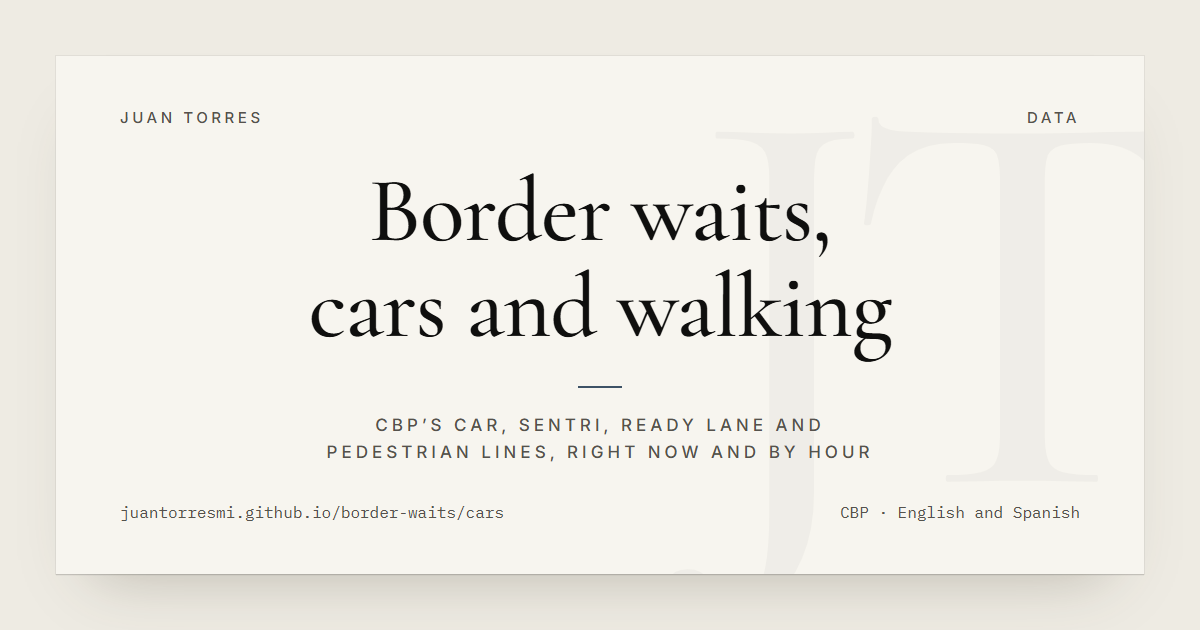
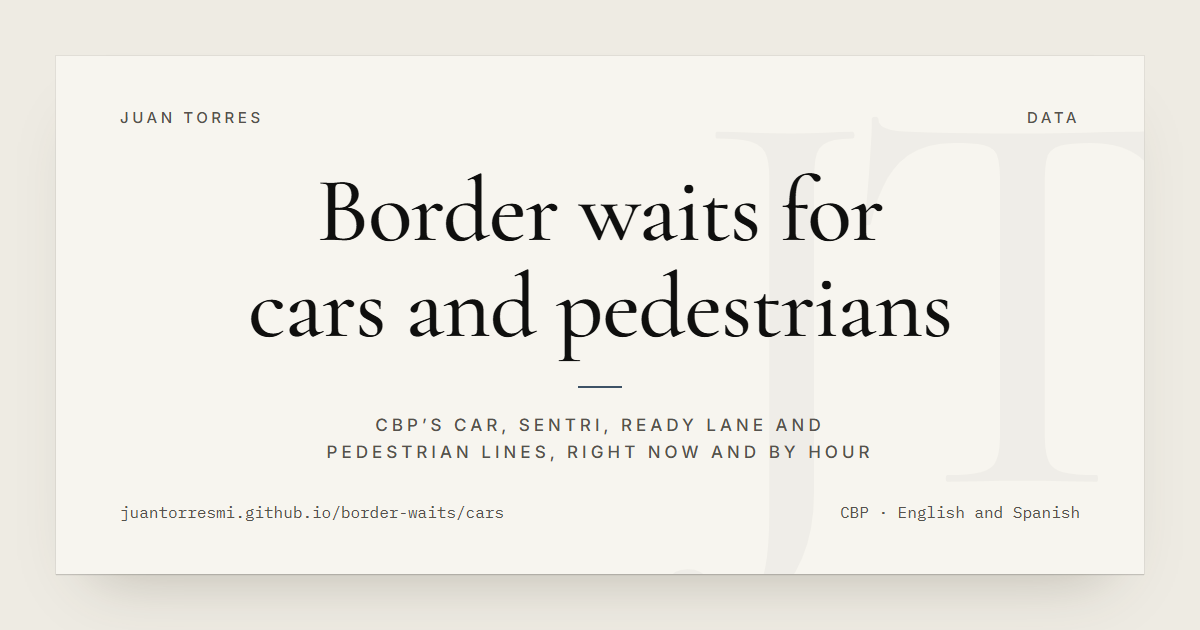
Projects page: names that match each page, four grouped sections, jump links instead of a filter script, compact cards

Changed region(s): [[0.185, 0.4222, 0.8017, 0.573], [0.2467, 0.2714, 0.74, 0.3921]]

diff --git a/projects.html b/projects.html
@@ -3,17 +3,28 @@ layout: default
 title: Projects
 seo_title: "Projects · Juan Torres · Simulations, Planners and Live Data"
 permalink: /projects/
-description: Projects by Juan Torres that run in the browser, from a fruit-fly delivery simulation and a production planner to live reefer rates and border waits.
+description: Projects by Juan Torres that run in the browser: planners and simulations, live USDA market prices, and border wait times for trucks, cars and pedestrians.
 image: /assets/og/projects.png
 image_alt: "Things I’ve built, by Juan Torres: a fly-brained delivery truck, a production planner, weekly reefer rates and a Minecraft price ledger."
 ---
 {%- comment -%}
-  A "professional" page (see the families in CLAUDE.md): a catalog. Each card wears its
-  project's own stock: Work projects on day stock, Gamer projects on night stock (the same
-  .stock-night tokens, scoped to the card), so the catalog previews where a click goes.
-  Card art is the project's share picture: `art` in projects.yml, else assets/og/<slug>.png. Styles: .pj in style.css.
+  A "professional" page (see the families in CLAUDE.md): a catalog. The first project in
+  projects.yml is the featured card; the rest are listed under their `group`, in the order below,
+  each group a section with its own heading and a jump link at the top (no script needed). Each
+  card wears its project's own stock: Work projects on day stock, Gamer projects on night stock
+  (the same .stock-night tokens, scoped to the card), so the catalog previews where a click goes.
+  The featured card shows its share picture (`art` in projects.yml, else assets/og/<slug>.png).
+  Styles: .pj in style.css.
 {%- endcomment -%}
-{%- assign families = site.data.projects | map: "family" | uniq -%}
+{%- assign all = site.data.projects -%}
+{%- assign lead = all | first -%}
+{%- capture groups -%}
+tools|Tools and simulations|Planners, solvers and simulations that run in your browser, for school, work and games.
+usda|USDA market prices|USDA’s market reports turned into readable pages in English and Spanish, with every number free to download.
+border|Border wait times|CBP’s land border waits for trucks, cars and pedestrians, right now and by hour of the week.
+site|Behind the site|The live numbers this site keeps about itself.
+{%- endcapture -%}
+{%- assign groups = groups | strip | newline_to_br | split: "<br />" -%}
 <div class="pj">
 <header class="pj-head">
   <div>
@@ -21,50 +32,56 @@ image_alt: "Things I’ve built, by Juan Torres: a fly-brained delivery truck, a
     <h1>Things I’ve built</h1>
     <p class="pj-lede">Mostly ideas from class, or from games I play, that I wanted to try for real. Each one runs right here on the site.</p>
   </div>
-  <div class="pj-filter" role="group" aria-label="Show projects by family" hidden>
-    <button type="button" data-family="" aria-pressed="true">All · {{ site.data.projects.size }}</button>
-    {%- for f in families %}{% assign n = site.data.projects | where: "family", f | size %}
-    <button type="button" data-family="{{ f }}" aria-pressed="false">{{ f }} · {{ n }}</button>
+  <nav class="pj-filter" aria-label="Project groups">
+    {%- for g in groups %}{% assign gp = g | strip | split: "|" %}{% assign n = all | where: "group", gp[0] | size %}{% if gp[0] == lead.group %}{% assign n = n | minus: 1 %}{% endif %}
+    <a href="#{{ gp[0] }}">{{ gp[1] }} · {{ n }}</a>
     {%- endfor %}
-  </div>
+  </nav>
 </header>
 
-<div class="pj-grid">
-  {%- for p in site.data.projects %}
-  <article class="pj-card{% if forloop.first %} pj-lead{% endif %}{% if p.family == "Gamer" %} stock-night{% endif %}" data-family="{{ p.family }}">
-    <a class="pj-link" href="{{ p.url }}">
-      <span class="pj-top"><span>No. {{ forloop.index | prepend: "0" | slice: -2, 2 }}{% if forloop.first %} · Featured{% endif %}</span><span class="pj-fam">{{ p.family }} · {{ p.kind }}</span></span>
-      <span class="pj-body">
+<article class="pj-card pj-lead{% if lead.family == "Gamer" %} stock-night{% endif %}">
+  <a class="pj-link" href="{{ lead.url }}">
+    <span class="pj-top"><span>Featured</span><span class="pj-fam">{{ lead.family }} · {{ lead.kind }}</span></span>
+    <span class="pj-body">
+      <span class="pj-text">
+        <span class="pj-title">{{ lead.title }}</span>
+        <span class="pj-short">{{ lead.summary }}</span>
+        <span class="pj-metric">{{ lead.metric }}</span>
+      </span>
+      {%- if lead.art %}{% assign art = lead.art %}{% else %}{% assign art = "/assets/og/" | append: lead.slug | append: ".png" %}{% endif %}
+      <img class="pj-art" src="{{ art }}" alt="" width="1200" height="630">
+    </span>
+  </a>
+  {%- if lead.writeup %}<a class="pj-more" href="{{ lead.writeup }}">How I built it →</a>{% elsif lead.guide %}<a class="pj-more" href="{{ lead.guide }}">Read the guide →</a>{% endif %}
+</article>
+
+{%- for g in groups %}{% assign gp = g | strip | split: "|" %}
+{%- assign list = all | where: "group", gp[0] %}
+{%- if list.size > 0 %}
+<section class="pj-group" id="{{ gp[0] }}" aria-labelledby="{{ gp[0] }}-h">
+  <header class="pj-group-head">
+    <h2 id="{{ gp[0] }}-h">{{ gp[1] }}</h2>
+    <p>{{ gp[2] }}</p>
+  </header>
+  <div class="pj-grid">
+    {%- for p in list %}{% if p.slug != lead.slug %}
+    <article class="pj-card{% if p.family == "Gamer" %} stock-night{% endif %}">
+      <a class="pj-link" href="{{ p.url }}">
+        <span class="pj-top"><span>{{ p.kind }}</span><span class="pj-fam">{{ p.family }}</span></span>
         <span class="pj-text">
           <span class="pj-title">{{ p.title }}</span>
-          <span class="pj-short">{% if forloop.first %}{{ p.summary }}{% else %}{{ p.short }}{% endif %}</span>
+          <span class="pj-short">{{ p.short }}</span>
           <span class="pj-metric">{{ p.metric }}</span>
         </span>
-        {%- if p.art %}{% assign art = p.art %}{% else %}{% assign art = "/assets/og/" | append: p.slug | append: ".png" %}{% endif %}
-        <img class="pj-art" src="{{ art }}" alt="" loading="lazy" width="1200" height="630">
-      </span>
-    </a>
-    {%- if p.writeup %}<a class="pj-more" href="{{ p.writeup }}">How I built it →</a>{% elsif p.guide %}<a class="pj-more" href="{{ p.guide }}">Read the guide →</a>{% endif %}
-  </article>
-  {%- endfor %}
+      </a>
+      {%- if p.writeup %}<a class="pj-more" href="{{ p.writeup }}">How I built it →</a>{% elsif p.guide %}<a class="pj-more" href="{{ p.guide }}">Read the guide →</a>{% endif %}
+    </article>
+    {%- endif %}{% endfor %}
+  </div>
+</section>
+{%- endif %}
+{%- endfor %}
 </div>
-</div>
-
-<script>
-/* Family filter. Every card shows without JavaScript; this only hides the others. */
-(() => {
-  const bar = document.querySelector(".pj-filter");
-  if (!bar) return;
-  bar.hidden = false;
-  const cards = [...document.querySelectorAll(".pj-card")];
-  bar.addEventListener("click", (e) => {
-    const b = e.target.closest("button");
-    if (!b) return;
-    bar.querySelectorAll("button").forEach((x) => x.setAttribute("aria-pressed", String(x === b)));
-    cards.forEach((c) => { c.hidden = !!b.dataset.family && c.dataset.family !== b.dataset.family; });
-  });
-})();
-</script>
 
 <section class="sec" id="log">
   <header class="sec-head"><h2>Project log</h2><a class="label" href="{{ site.social.github }}">GitHub ↗</a></header>

diff --git a/assets/css/style.css b/assets/css/style.css
@@ -778,15 +778,19 @@ a.yt-row:hover .t { color: var(--accent); }
 .pj h1 { margin: 0; font-family: var(--serif); font-weight: 500; font-size: clamp(48px, 7vw, 80px); line-height: 0.98; color: var(--ink); }
 .pj-lede { margin: 20px 0 0 !important; max-width: 36em; font-size: 18px; line-height: 1.6; color: var(--text-2); }
 .pj-filter { display: flex; flex-wrap: wrap; border: 1px solid var(--ink); }
-.pj-filter[hidden] { display: none; }
-.pj-filter button { height: 44px; padding: 0 16px; border: 0; border-left: 1px solid var(--ink); background: transparent; color: var(--ink); font: 500 11px/1 var(--sans); letter-spacing: 0.16em; text-transform: uppercase; cursor: pointer; }
-.pj-filter button:first-child { border-left: 0; }
-.pj-filter button[aria-pressed="true"] { background: var(--ink); color: var(--on-ink); }
-.pj-grid { display: grid; grid-template-columns: repeat(auto-fill, minmax(320px, 1fr)); gap: 24px; margin-top: 40px; }
+.pj-filter a { display: flex; align-items: center; min-height: 44px; padding: 0 16px; border-left: 1px solid var(--ink); color: var(--ink); font: 500 11px/1.3 var(--sans); letter-spacing: 0.16em; text-transform: uppercase; text-decoration: none; }
+.pj-filter a:first-child { border-left: 0; }
+.pj-filter a:hover, .pj-filter a:focus-visible { background: var(--ink); color: var(--on-ink); }
+/* One section per group (projects.yml `group`): a heading and a line, then its cards. */
+.pj-group { margin-top: 72px; scroll-margin-top: 24px; }
+.pj-group-head { display: flex; flex-wrap: wrap; justify-content: space-between; align-items: baseline; gap: 8px 32px; padding-top: 16px; border-top: 1px solid var(--ink); }
+.pj-group-head h2 { margin: 0; font-family: var(--serif); font-weight: 500; font-size: clamp(32px, 4vw, 40px); line-height: 1.1; color: var(--ink); }
+.pj-group-head p { margin: 0; max-width: 34em; font-size: 15px; line-height: 1.55; color: var(--text-2); }
+.pj-grid { display: grid; grid-template-columns: repeat(auto-fill, minmax(280px, 1fr)); gap: 24px; margin-top: 24px; }
 .pj-card { display: flex; flex-direction: column; background: var(--stock); color: var(--text); border-top: 2px solid var(--ink); }
 .pj-card.stock-night { border-top-color: var(--accent); outline: 1px solid var(--rule); outline-offset: -1px; }
 .pj-card[hidden] { display: none; }
-.pj-lead { grid-column: 1 / -1; border-top: 0; }
+.pj-lead { margin-top: 40px; border-top: 0; }
 .pj-link { flex: 1; display: flex; flex-direction: column; gap: 16px; padding: 24px; text-decoration: none; }
 .pj-lead .pj-link { padding: clamp(24px, 4vw, 48px); }
 .pj-top { display: flex; justify-content: space-between; gap: 16px; font-size: 11px; font-weight: 500; letter-spacing: 0.16em; text-transform: uppercase; color: var(--muted); }
@@ -795,7 +799,7 @@ a.yt-row:hover .t { color: var(--accent); }
 .pj-body { display: flex; flex-direction: column; gap: 20px; flex: 1; }
 .pj-lead .pj-body { display: grid; grid-template-columns: minmax(0, 7fr) minmax(0, 5fr); gap: 32px; align-items: center; }
 .pj-text { display: flex; flex-direction: column; gap: 12px; }
-.pj-title { font-family: var(--serif); font-weight: 500; font-size: 32px; line-height: 1.05; color: var(--ink); transition: color 0.15s; }
+.pj-title { font-family: var(--serif); font-weight: 500; font-size: 28px; line-height: 1.1; color: var(--ink); transition: color 0.15s; text-wrap: balance; }
 .pj-lead .pj-title { font-size: clamp(40px, 5vw, 56px); }
 .pj-link:hover .pj-title { color: var(--accent); }
 .pj-short { font-size: 15px; line-height: 1.55; color: var(--text); }
@@ -805,7 +809,8 @@ a.yt-row:hover .t { color: var(--accent); }
 .pj-more { align-self: flex-start; margin: 0 24px 24px; font-size: 13px; color: var(--ink); text-decoration: underline; text-decoration-thickness: 1px; text-underline-offset: 4px; text-decoration-color: var(--rule); }
 .pj-lead .pj-more { margin: 0 clamp(24px, 4vw, 48px) clamp(24px, 4vw, 40px); }
 .pj-more:hover { color: var(--accent); text-decoration-color: var(--accent); }
-@media (max-width: 860px) { .pj { padding-top: 32px; } .pj-lead .pj-body { grid-template-columns: minmax(0, 1fr); } }
+@media (max-width: 860px) { .pj { padding-top: 32px; } .pj-lead .pj-body { grid-template-columns: minmax(0, 1fr); } .pj-group { margin-top: 56px; } }
+@media (max-width: 520px) { .pj-filter { display: grid; grid-template-columns: 1fr 1fr; width: 100%; } .pj-filter a { border-left: 0; border-top: 1px solid var(--ink); padding: 10px 12px; } .pj-filter a:nth-child(-n+2) { border-top: 0; } .pj-filter a:nth-child(even) { border-left: 1px solid var(--ink); } }
 @media (max-width: 400px) { .pj-grid { grid-template-columns: minmax(0, 1fr); } }
 
 /* ---------- Writing (/blog/) ----------

diff --git a/scripts/og-images.js b/scripts/og-images.js
@@ -36,9 +36,9 @@ const CARDS = {
     sub: "Build your own solver · Optimization in plain English", bottom: ["juantorresmi.github.io/plain-solver", "HiGHS · in the browser"] },
   "reefer-rates": { top: ["Juan Torres", "Data"], name: "Reefer truck rates",
     sub: "USDA’s weekly produce truck rates, lane by lane, with the history", bottom: ["juantorresmi.github.io/reefer-rates", "USDA AMS · Cloudflare Worker"] },
-  "border-waits": { top: ["Juan Torres", "Data"], name: "Border truck waits",
+  "border-waits": { top: ["Juan Torres", "Data"], name: "Border truck wait times",
     sub: "CBP’s commercial lane waits, right now and by hour of the week", bottom: ["juantorresmi.github.io/border-waits", "CBP · Cloudflare Worker"] },
-  "border-waits-cars": { top: ["Juan Torres", "Data"], name: "Border waits, cars and walking",
+  "border-waits-cars": { top: ["Juan Torres", "Data"], name: "Border waits for cars and pedestrians",
     sub: "CBP’s car, SENTRI, Ready Lane and pedestrian lines, right now and by hour", bottom: ["juantorresmi.github.io/border-waits/cars", "CBP · English and Spanish"] },
   "beef-prices": { top: ["Juan Torres", "Data"], name: "Boxed beef prices",
     sub: "USDA’s daily cutout and the price of every cut, with the history", bottom: ["juantorresmi.github.io/beef-prices", "USDA AMS · Cloudflare Worker"] },

diff --git a/CHANGELOG.md b/CHANGELOG.md
@@ -37,6 +37,20 @@ Things waiting on a decision or on Juan, so they aren't lost:
   beef (LM_XB405) from the keyless datamart, then MyMarketNews reports (terminal markets, eggs, grain).
   CLAUDE.md, "A new USDA board", is the checklist.
 
+## 2026-10-20 — The projects page, grouped and renamed
+
+- **Names**: each project's name now matches its page's own title and the words people search for:
+  Reefer Truck Rates (was Reefer Rate Board), Border Truck Wait Times (was Border Wait Board), Border
+  Wait Times for Cars and Pedestrians, YouTube Channel Stats, Cloudflare Worker Usage. The two border
+  share pictures say the same.
+- **Order and groups**: `projects.yml` has a `group` per project, and `/projects/` lists them in four
+  sections, each with its own heading: Tools and simulations, USDA market prices (the hub first, then
+  beef, pork, cattle, reefer), Border wait times, Behind the site. The home page and the project bar
+  follow the same order.
+- **Display**: the Work/Gamer filter (a script) is now plain jump links to the groups, which work
+  without JavaScript and give crawlers the headings. Cards drop the share picture, which only repeated
+  the card's title; the featured card keeps it.
+
 ## 2026-10-20 — The car and pedestrian border board, in English and Spanish
 
 - **`/border-waits/cars/`**: every land crossing's car lines (standard, SENTRI or NEXUS, Ready Lane) and
